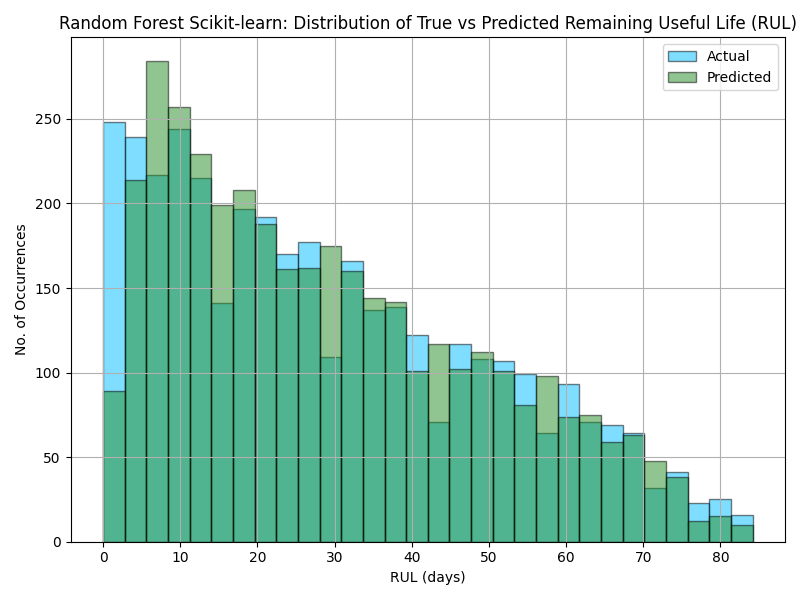
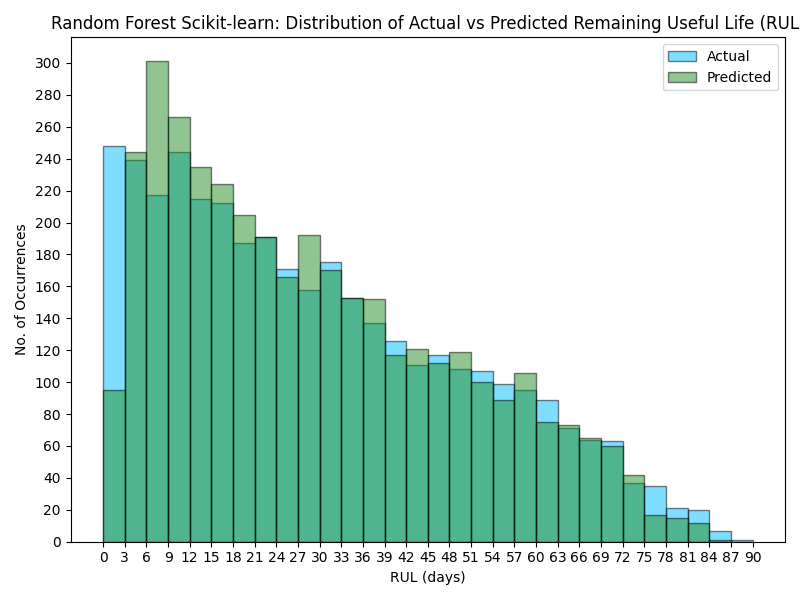
Finalised

diff --git a/src/helper_functions.py b/src/helper_functions.py
@@ -133,7 +133,7 @@ def plot_distribution(values,
     plt.ylabel(ylabel)
     plt.title(title)
     plt.grid(True)
-    plt.xticks(np.arange(0, 88, 10))
+    plt.xticks(np.arange(0, 91, 10))
     plt.tight_layout()
     
     if save_path:
@@ -166,8 +166,8 @@ def plot_actual_vs_predicted(y_true,
     plt.ylabel('Predicted RUL (days)')
     plt.title(title)
     plt.legend(loc='upper left')
-    plt.xticks(np.arange(0, 88, 10))
-    plt.yticks(np.arange(0, 88, 10))
+    plt.xticks(np.arange(0, 91, 10))
+    plt.yticks(np.arange(0, 91, 10))
     plt.tight_layout()
     
     if save_path:
@@ -213,7 +213,7 @@ def plot_summary_statistics(y_true,
     pred_maximum = np.max(y_pred)
     
     # Plot boxplot for both y_true and y_pred
-    true_boxes = plt.boxplot([y_true], vert=False, positions=[1], labels=['True'], patch_artist=True)
+    true_boxes = plt.boxplot([y_true], vert=False, positions=[1], labels=['Actual'], patch_artist=True)
     pred_boxes = plt.boxplot([y_pred], vert=False, positions=[1.3], labels=['Predicted'], patch_artist=True)
     
     # Set colors for the boxplots
@@ -223,7 +223,7 @@ def plot_summary_statistics(y_true,
         box.set(facecolor=pred_color)
     
     # Annotate summary statistics for y_true
-    plt.text(1, 0.85, f'Statistics of true values:', fontsize='medium', color=text_color_t)
+    plt.text(1, 0.85, f'Statistics of actual values:', fontsize='medium', color=text_color_t)
     plt.text(1, 0.75, f'Maximum: {true_maximum:.2f}', fontsize='medium', color=text_color_t)
     plt.text(1, 0.7, f'Mean: {true_mean:.2f}', fontsize='medium', color=text_color_t)
     plt.text(1, 0.65, f'Median: {true_median:.2f}', fontsize='medium', color=text_color_t)
@@ -241,7 +241,7 @@ def plot_summary_statistics(y_true,
     plt.xlabel('RUL (days)')
     plt.title(title)
     plt.grid(True)
-    plt.xticks(np.arange(0, 88, 10))
+    plt.xticks(np.arange(0, 91, 10))
     plt.tight_layout()
     
     if save_path:
@@ -252,8 +252,8 @@ def plot_summary_statistics(y_true,
     
 def plot_histograms_parallel(y_true, 
                              y_pred, 
-                             titles=('Distribution of True RUL', 'Distribution of Predicted RUL'), 
-                             xlabels=('True RUL (days)', 'Predicted RUL (days)'), 
+                             titles=('Distribution of Actual RUL', 'Distribution of Predicted RUL'), 
+                             xlabels=('Actual RUL (days)', 'Predicted RUL (days)'), 
                              ylabel='No. of Occurrences', 
                              colors=('orange', 'limegreen'),
                              save_path=None):
@@ -275,12 +275,12 @@ def plot_histograms_parallel(y_true,
         ax = axes[i]
         title = titles[i]
         
-        ax.hist(values, bins=30, color=colors[i], edgecolor='black', alpha=0.7)
+        ax.hist(values, bins=30, range=(0, 90), color=colors[i], edgecolor='black', alpha=0.7)
         ax.set_xlabel(xlabels[i])
         ax.set_ylabel(ylabel)
         ax.set_title(title)
-        ax.grid(True)
-        ax.set_xticks(np.arange(min(values), max(values)+1, 10))
+        ax.set_xticks(np.arange(0, 91, 3))
+        ax.set_yticks(np.arange(0, 301, 20))
     
     plt.tight_layout()
     
@@ -292,7 +292,7 @@ def plot_histograms_parallel(y_true,
 
 def plot_histograms_stacked(y_true, 
                             y_pred, 
-                            title='Comparison of True and Predicted Values',
+                            title='Comparison of Actual and Predicted Values',
                             xlabel='RUL (days)',
                             ylabel='No. of Occurrences',
                             actual_color='orange', 
@@ -311,22 +311,18 @@ def plot_histograms_stacked(y_true,
         predicted_color (tuple): The histogram color representing the predicted values.
         save_path (str): File path to save the figure.
     """
-    true_range = (min(y_true), max(y_true))
-    pred_range = (min(y_pred), max(y_pred))
-    common_range = (min(true_range[0], pred_range[0]), min(true_range[1], pred_range[1]))
-
     fig = plt.figure(figsize=(8, 6))
 
-    plt.hist(y_true, bins=30, range=common_range, color=actual_color, alpha=0.5, edgecolor='black', label='Actual')
-    plt.hist(y_pred, bins=30, range=common_range, color=predicted_color, alpha=0.5, edgecolor='black', label='Predicted')
+    plt.hist(y_true, bins=30, range=(0, 90), color=actual_color, alpha=0.5, edgecolor='black', label='Actual')
+    plt.hist(y_pred, bins=30, range=(0, 90), color=predicted_color, alpha=0.5, edgecolor='black', label='Predicted')
 
     plt.xlabel(xlabel)
     plt.ylabel(ylabel)
     plt.title(title)
-    plt.grid(True)
     plt.legend()
     plt.tight_layout()
-    plt.xticks(np.arange(common_range[0], common_range[1]+1, 10))
+    plt.xticks(np.arange(0, 91, 3))
+    plt.yticks(np.arange(0, 301, 20))
     
     if save_path:
         plt.savefig(save_path)
